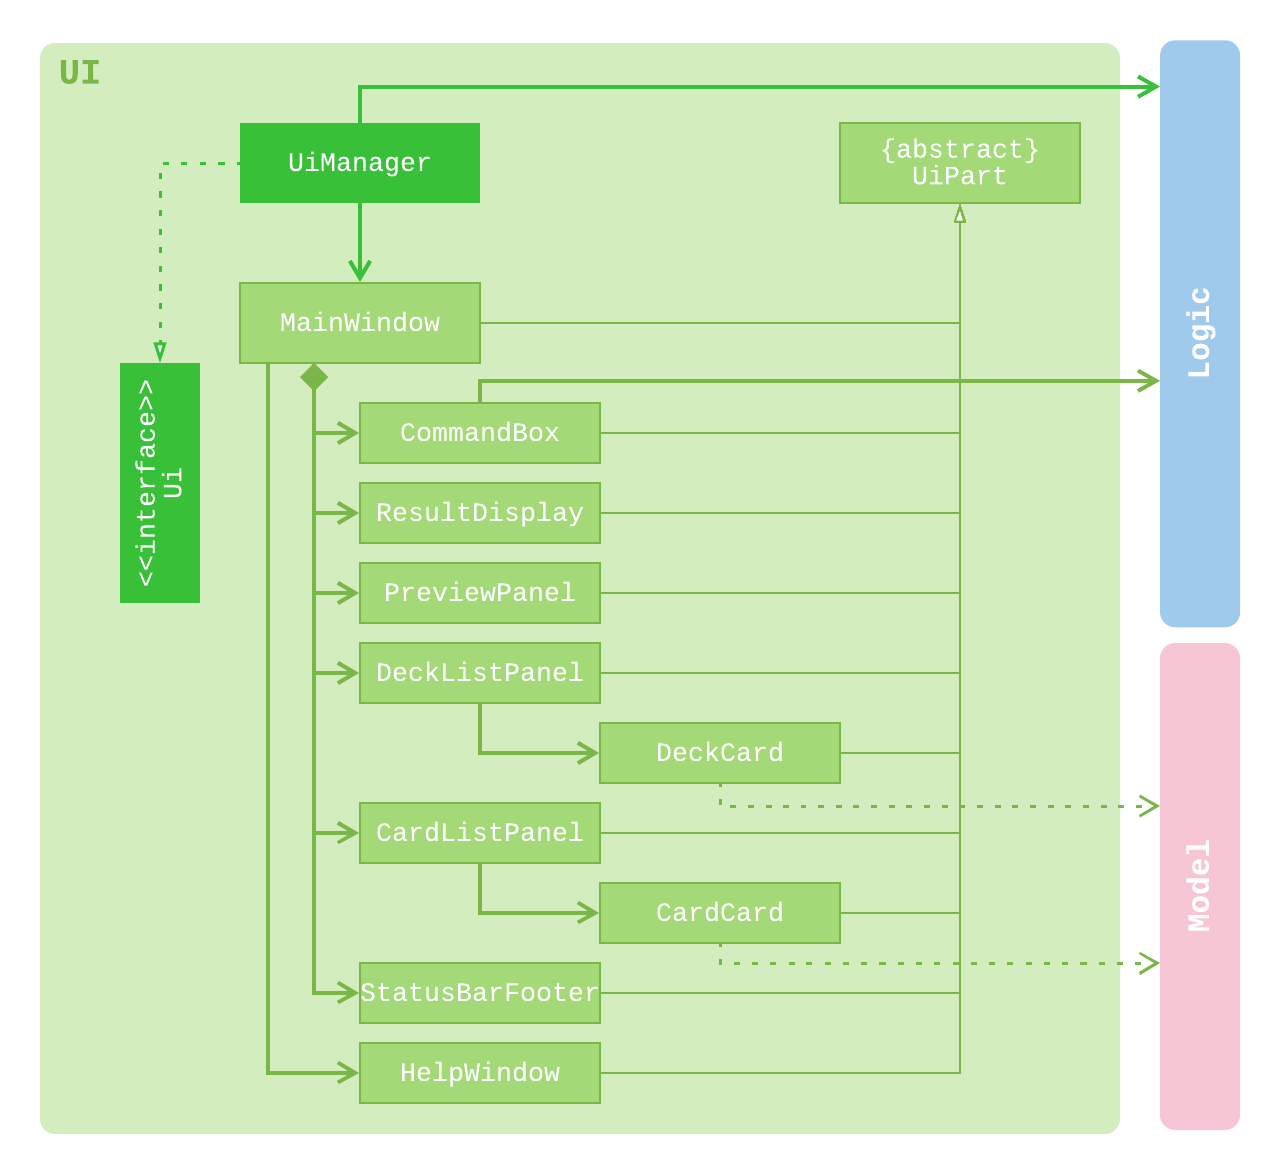
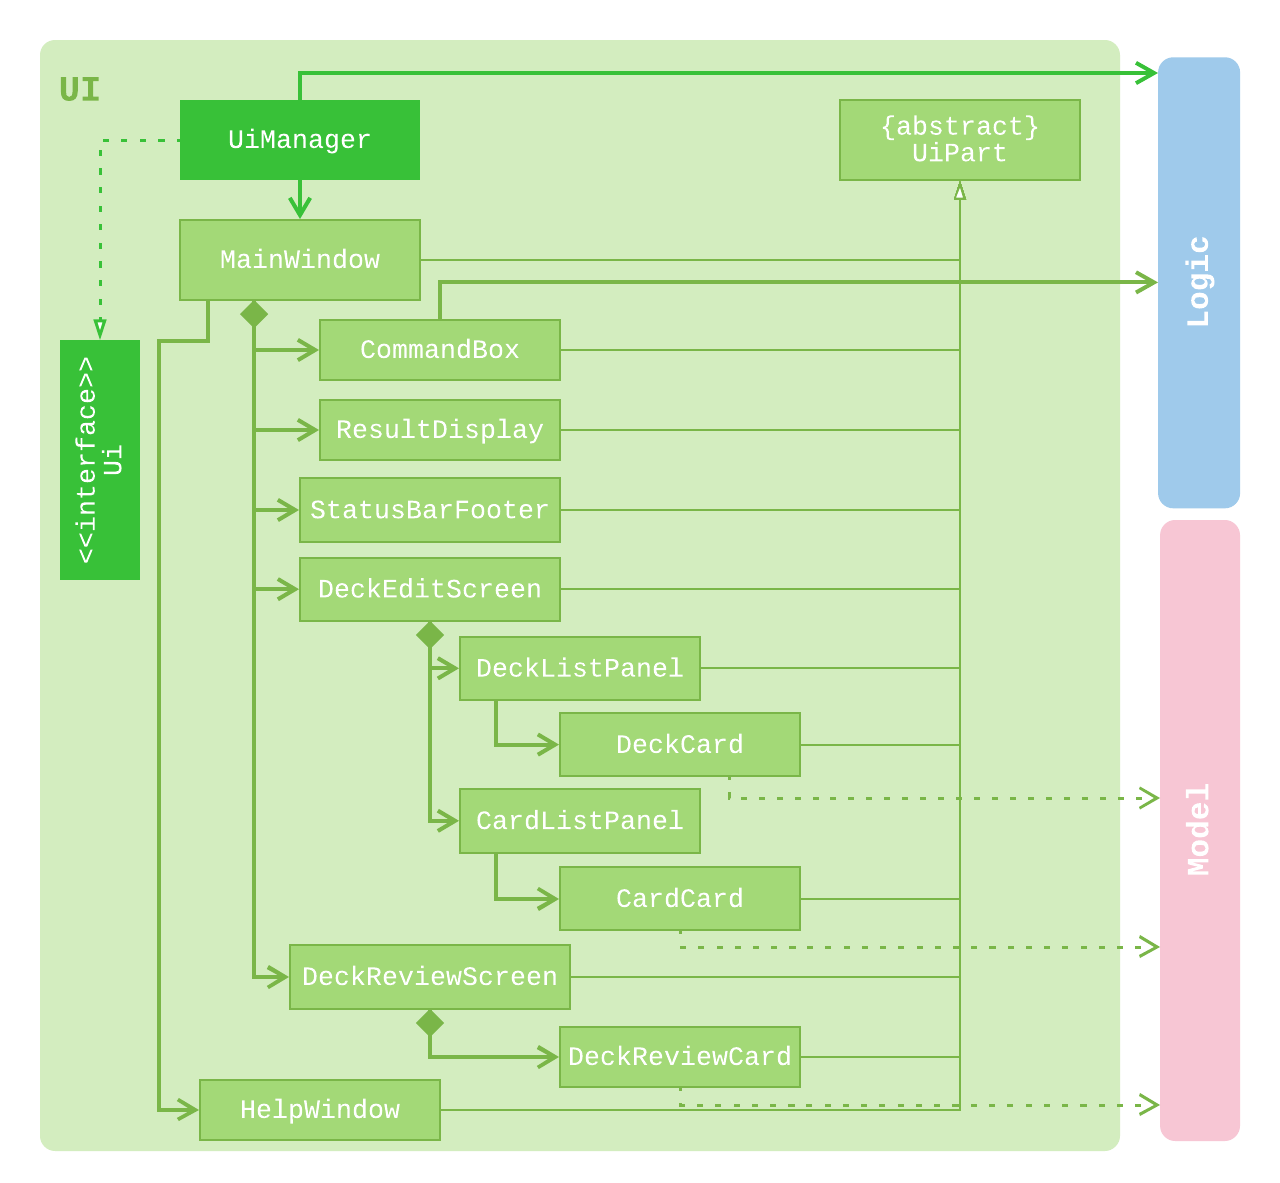
Rebuild pages at 7248a63b82877c5cd7b93f7d33d256f35dbe4cc6

diff --git a/DeveloperGuide.html b/DeveloperGuide.html
@@ -307,15 +307,16 @@ This will generate all resources required by the application and tests.</p>
 <p><strong>API</strong> : <a href="https://github.com/CS2103-AY1819S1-T09-2/main/tree/master/src/main/java/seedu/address/ui/Ui.java"><code>Ui.java</code></a></p>
 </div>
 <div class="paragraph">
-<p>The UI consists of a <code>MainWindow</code> that is made up of parts e.g.<code>CommandBox</code>, <code>ResultDisplay</code>, <code>DeckListPanel</code>,
-<code>CardListPanel</code>, <code>StatusBarFooter</code>, <code>PreviewPanel</code> etc. All these, including the <code>MainWindow</code>, inherit from the
-abstract <code>UiPart</code> class.</p>
+<p>The UI consists of a <code>MainWindow</code> that is made up of parts e.g.<code>CommandBox</code>, <code>ResultDisplay</code>, <code>DeckEditScreen</code>,
+<code>DeckReviewScreen</code>, <code>StatusBarFooter</code> etc. The <code>DeckEditScreen</code> is in turn made up of <code>DeckListPanel</code> and
+<code>CardListPanel</code> and the <code>DeckReviewScreen</code> is made up of <code>DeckReviewCard</code>. All these, including the <code>MainWindow</code>,
+inherit from the abstract <code>UiPart</code> class.</p>
 </div>
 <div class="paragraph">
 <p>The <code>UI</code> component uses JavaFx UI framework. The layout of these UI parts are defined in matching <code>.fxml</code> files that are in the <code>src/main/resources/view</code> folder. For example, the layout of the <a href="https://github.com/CS2103-AY1819S1-T09-2/main/tree/master/src/main/java/seedu/address/ui/MainWindow.java"><code>MainWindow</code></a> is specified in <a href="https://github.com/CS2103-AY1819S1-T09-2/main/tree/master/src/main/resources/view/MainWindow.fxml"><code>MainWindow.fxml</code></a></p>
 </div>
 <div class="paragraph">
-<p>The <code>UI</code> component,</p>
+<p>The <code>UI</code> component</p>
 </div>
 <div class="ulist">
 <ul>
@@ -323,7 +324,7 @@ abstract <code>UiPart</code> class.</p>
 <p>Executes user commands using the <code>Logic</code> component.</p>
 </li>
 <li>
-<p>Binds itself to some data in the <code>Model</code> so that the UI can auto-update when data in the <code>Model</code> change.</p>
+<p>Binds itself to some data in the <code>Model</code> so that the UI can auto-update when data in the <code>Model</code> changes.</p>
 </li>
 <li>
 <p>Responds to events raised from various parts of the App and updates the UI accordingly.</p>
@@ -2096,4 +2097,4 @@ b. Require developers to download those libraries manually (this creates extra w
 </dl>
 </div>
 </div>
-</div></div><div id="footer"><div class="container"><div id="footer-text">Last updated 2018-11-01 16:17:47 UTC</div></div></div></body></html>
+</div></div><div id="footer"><div class="container"><div id="footer-text">Last updated 2018-11-01 17:05:28 UTC</div></div></div></body></html>

diff --git a/team/yujiatay.html b/team/yujiatay.html
@@ -502,15 +502,16 @@ of the process is similar to Step 3.</p>
 <p><strong>API</strong> : <a href="{repoURL}/src/main/java/seedu/address/ui/Ui.java"><code>Ui.java</code></a></p>
 </div>
 <div class="paragraph">
-<p>The UI consists of a <code>MainWindow</code> that is made up of parts e.g.<code>CommandBox</code>, <code>ResultDisplay</code>, <code>DeckListPanel</code>,
-<code>CardListPanel</code>, <code>StatusBarFooter</code>, <code>PreviewPanel</code> etc. All these, including the <code>MainWindow</code>, inherit from the
-abstract <code>UiPart</code> class.</p>
+<p>The UI consists of a <code>MainWindow</code> that is made up of parts e.g.<code>CommandBox</code>, <code>ResultDisplay</code>, <code>DeckEditScreen</code>,
+<code>DeckReviewScreen</code>, <code>StatusBarFooter</code> etc. The <code>DeckEditScreen</code> is in turn made up of <code>DeckListPanel</code> and
+<code>CardListPanel</code> and the <code>DeckReviewScreen</code> is made up of <code>DeckReviewCard</code>. All these, including the <code>MainWindow</code>,
+inherit from the abstract <code>UiPart</code> class.</p>
 </div>
 <div class="paragraph">
 <p>The <code>UI</code> component uses JavaFx UI framework. The layout of these UI parts are defined in matching <code>.fxml</code> files that are in the <code>src/main/resources/view</code> folder. For example, the layout of the <a href="{repoURL}/src/main/java/seedu/address/ui/MainWindow.java"><code>MainWindow</code></a> is specified in <a href="{repoURL}/src/main/resources/view/MainWindow.fxml"><code>MainWindow.fxml</code></a></p>
 </div>
 <div class="paragraph">
-<p>The <code>UI</code> component,</p>
+<p>The <code>UI</code> component</p>
 </div>
 <div class="ulist">
 <ul>
@@ -518,7 +519,7 @@ abstract <code>UiPart</code> class.</p>
 <p>Executes user commands using the <code>Logic</code> component.</p>
 </li>
 <li>
-<p>Binds itself to some data in the <code>Model</code> so that the UI can auto-update when data in the <code>Model</code> change.</p>
+<p>Binds itself to some data in the <code>Model</code> so that the UI can auto-update when data in the <code>Model</code> changes.</p>
 </li>
 <li>
 <p>Responds to events raised from various parts of the App and updates the UI accordingly.</p>
@@ -613,4 +614,4 @@ to subsequent and previous cards in the deck. See Deck Review Implementation for
 </div>
 </div>
 </div>
-</div></div><div id="footer"><div class="container"><div id="footer-text">Last updated 2018-11-01 16:17:47 UTC</div></div></div></body></html>
+</div></div><div id="footer"><div class="container"><div id="footer-text">Last updated 2018-11-01 17:05:28 UTC</div></div></div></body></html>

diff --git a/team/johndoe.html b/team/johndoe.html
@@ -239,4 +239,4 @@ The <code>redo</code> command fails as there are no <code>undo</code> commands e
 <p><em>{Optionally, you may include other projects in your portfolio.}</em></p>
 </div>
 </div>
-</div></div><div id="footer"><div class="container"><div id="footer-text">Last updated 2018-11-01 16:17:47 UTC</div></div></div></body></html>
+</div></div><div id="footer"><div class="container"><div id="footer-text">Last updated 2018-11-01 17:05:28 UTC</div></div></div></body></html>

diff --git a/ContactUs.html b/ContactUs.html
@@ -12,4 +12,4 @@
 <p><strong>Email us</strong> : You can also reach us at <code>joel_lee [at] u.nus.edu</code></p>
 </li>
 </ul>
-</div></div><div id="footer"><div class="container"><div id="footer-text">Last updated 2018-11-01 16:17:47 UTC</div></div></div></body></html>
+</div></div><div id="footer"><div class="container"><div id="footer-text">Last updated 2018-11-01 17:05:28 UTC</div></div></div></body></html>

diff --git a/HelpWindow.html b/HelpWindow.html
@@ -949,4 +949,4 @@ When inside a deck, finds cards with questions that contain any of the given key
 </tbody>
 </table>
 </div>
-</div></div><div id="footer"><div class="container"><div id="footer-text">Last updated 2018-11-01 16:17:47 UTC</div></div></div></body></html>
+</div></div><div id="footer"><div class="container"><div id="footer-text">Last updated 2018-11-01 17:05:28 UTC</div></div></div></body></html>

diff --git a/UserGuide.html b/UserGuide.html
@@ -949,4 +949,4 @@ When inside a deck, finds cards with questions that contain any of the given key
 </tbody>
 </table>
 </div>
-</div></div><div id="footer"><div class="container"><div id="footer-text">Last updated 2018-11-01 16:17:47 UTC</div></div></div></body></html>
+</div></div><div id="footer"><div class="container"><div id="footer-text">Last updated 2018-11-01 17:05:28 UTC</div></div></div></body></html>

diff --git a/LearningOutcomes.html b/LearningOutcomes.html
@@ -542,4 +542,4 @@ class gives some examples of how to use <em>Equivalence Partitions</em>, <em>Bou
 </div>
 </div>
 </div>
-</div></div><div id="footer"><div class="container"><div id="footer-text">Last updated 2018-11-01 16:17:47 UTC</div></div></div></body></html>
+</div></div><div id="footer"><div class="container"><div id="footer-text">Last updated 2018-11-01 17:05:28 UTC</div></div></div></body></html>

diff --git a/UsingGradle.html b/UsingGradle.html
@@ -255,4 +255,4 @@ See <code>build.gradle</code> &#8594; <code>allprojects</code> &#8594; <code>dep
 </ul>
 </div>
 </div>
-</div></div><div id="footer"><div class="container"><div id="footer-text">Last updated 2018-11-01 16:17:47 UTC</div></div></div></body></html>
+</div></div><div id="footer"><div class="container"><div id="footer-text">Last updated 2018-11-01 17:05:28 UTC</div></div></div></body></html>

diff --git a/UsingNetlify.html b/UsingNetlify.html
@@ -123,4 +123,4 @@ The publish directory is the directory in which the built HTML documentation res
 </ol>
 </div>
 </div>
-</div></div><div id="footer"><div class="container"><div id="footer-text">Last updated 2018-11-01 16:17:47 UTC</div></div></div></body></html>
+</div></div><div id="footer"><div class="container"><div id="footer-text">Last updated 2018-11-01 17:05:28 UTC</div></div></div></body></html>

diff --git a/UsingCoveralls.html b/UsingCoveralls.html
@@ -96,4 +96,4 @@ If you have not set up Travis CI, see <a href="UsingTravis.html">UsingTravis.ado
 </ol>
 </div>
 </div>
-</div></div><div id="footer"><div class="container"><div id="footer-text">Last updated 2018-11-01 16:17:47 UTC</div></div></div></body></html>
+</div></div><div id="footer"><div class="container"><div id="footer-text">Last updated 2018-11-01 17:05:28 UTC</div></div></div></body></html>

diff --git a/UsingTravis.html b/UsingTravis.html
@@ -280,4 +280,4 @@ Suggested change: Remove the codacy badge from <code>README</code>.</p>
 </div>
 </div>
 </div>
-</div></div><div id="footer"><div class="container"><div id="footer-text">Last updated 2018-11-01 16:17:47 UTC</div></div></div></body></html>
+</div></div><div id="footer"><div class="container"><div id="footer-text">Last updated 2018-11-01 17:05:28 UTC</div></div></div></body></html>

diff --git a/UsingCheckstyle.html b/UsingCheckstyle.html
@@ -91,4 +91,4 @@ Restart the IDE to complete the installation.</p>
 </ul>
 </div>
 </div>
-</div></div><div id="footer"><div class="container"><div id="footer-text">Last updated 2018-11-01 16:17:47 UTC</div></div></div></body></html>
+</div></div><div id="footer"><div class="container"><div id="footer-text">Last updated 2018-11-01 17:05:28 UTC</div></div></div></body></html>
